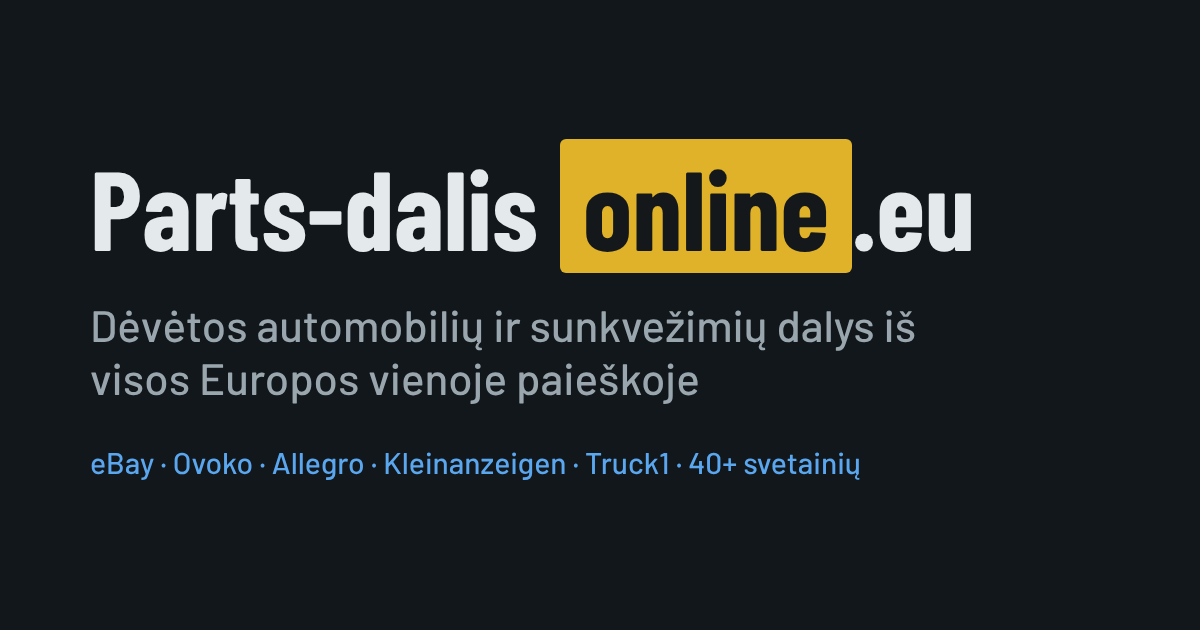
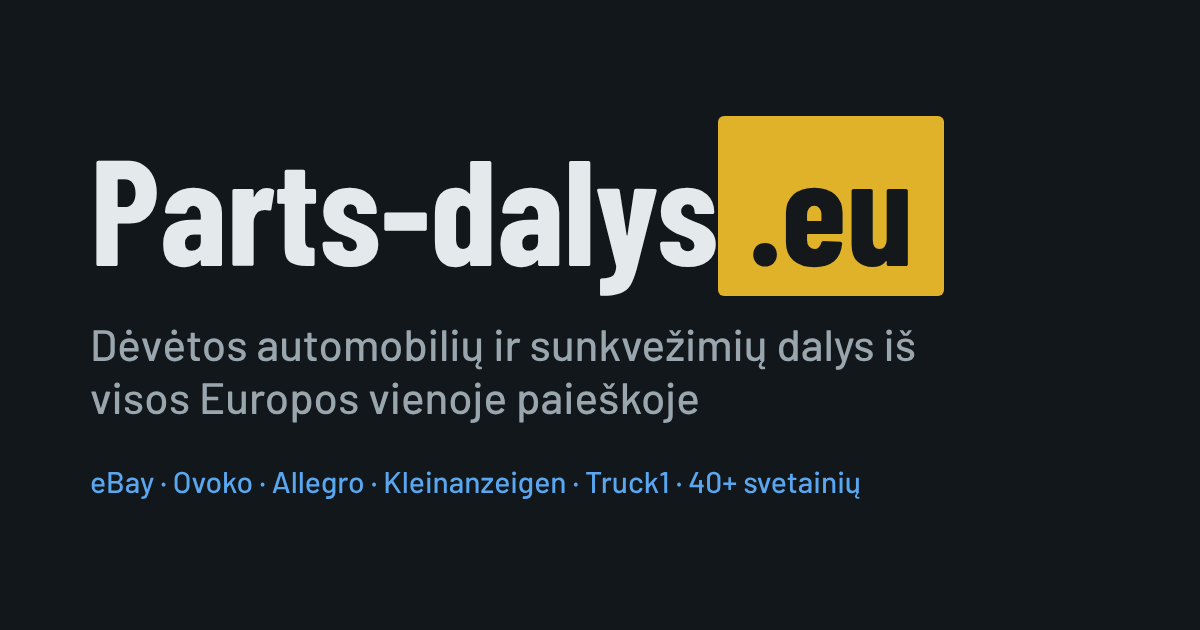
Rename site to Parts-dalys.eu
Claude-Session: https://claude.ai/code/session_01UNrUfuVYBVuLXoXYuXDMci

Changed region(s): [[0.0617, 0.181, 0.8325, 0.6635], [0.0617, 0.7238, 0.74, 0.7841]]

diff --git a/public/apie.html b/public/apie.html
@@ -3,12 +3,12 @@
 <head>
 <meta charset="utf-8">
 <meta name="viewport" content="width=device-width, initial-scale=1">
-<title>Apie – Parts-dalis online.eu</title>
-<meta name="description" content="Kas yra Parts-dalis online.eu, iš kur gaunami skelbimai, kaip skaičiuojamos kainos ir kaip su mumis susisiekti.">
+<title>Apie – Parts-dalys.eu</title>
+<meta name="description" content="Kas yra Parts-dalys.eu, iš kur gaunami skelbimai, kaip skaičiuojamos kainos ir kaip su mumis susisiekti.">
 <meta property="og:type" content="website">
 <meta property="og:locale" content="lt_LT">
-<meta property="og:site_name" content="Parts-dalis online.eu">
-<meta property="og:title" content="Apie Parts-dalis online.eu">
+<meta property="og:site_name" content="Parts-dalys.eu">
+<meta property="og:title" content="Apie Parts-dalys.eu">
 <meta property="og:description" content="Dėvėtų automobilių ir sunkvežimių dalių paieška per daugelį Europos ir pasaulio svetainių.">
 <meta property="og:image" content="/favicon.svg">
 <meta name="theme-color" content="#eef1f2" media="(prefers-color-scheme: light)">
@@ -23,12 +23,12 @@
 <body>
 <div class="wrap">
   <header>
-    <a class="brand" href="/">Parts-dalis <span>online</span>.eu</a>
+    <a class="brand" href="/">Parts-dalys<span>.eu</span></a>
   </header>
 
   <main class="prose">
     <h1>Apie</h1>
-    <p>Parts-dalis online.eu – tai viena paieška per dėvėtų lengvųjų automobilių ir sunkvežimių dalių skelbimus Europoje ir pasaulyje. Įrašote detalės pavadinimą arba OEM numerį lietuviškai, o mes užklausą išverčiame į kitas kalbas, vienu metu paklausiame kelių šaltinių ir parodome rezultatus vienoje vietoje, surikiuotus nuo pigiausio su pristatymu.</p>
+    <p>Parts-dalys.eu – tai viena paieška per dėvėtų lengvųjų automobilių ir sunkvežimių dalių skelbimus Europoje ir pasaulyje. Įrašote detalės pavadinimą arba OEM numerį lietuviškai, o mes užklausą išverčiame į kitas kalbas, vienu metu paklausiame kelių šaltinių ir parodome rezultatus vienoje vietoje, surikiuotus nuo pigiausio su pristatymu.</p>
 
     <h2>Iš kur skelbimai</h2>
     <ul>
@@ -47,13 +47,13 @@
     <p>Kai kurios eBay nuorodos gali būti partnerių (angl. <em>affiliate</em>) nuorodos: jei per jas ką nors nusipirksite, gausime nedidelį komisinį atlygį iš eBay. Jums kaina dėl to nesikeičia, o tai padeda išlaikyti svetainę nemokamą.</p>
 
     <h2 id="kontaktai">Kontaktai</h2>
-    <p>Pastebėjote klaidą, norite pasiūlyti šaltinį ar bendradarbiauti? Rašykite: <a href="mailto:info@partsonline.eu">info@partsonline.eu</a>.</p>
+    <p>Pastebėjote klaidą, norite pasiūlyti šaltinį ar bendradarbiauti? Rašykite: <a href="mailto:info@parts-dalys.eu">info@parts-dalys.eu</a>.</p>
 
     <p><a href="/">← Grįžti į paiešką</a></p>
   </main>
 
   <footer>
-    <span>© Parts-dalis online.eu · kainos orientacinės, pirkimas vyksta pardavėjo svetainėje</span>
+    <span>© Parts-dalys.eu · kainos orientacinės, pirkimas vyksta pardavėjo svetainėje</span>
     <nav aria-label="Papildoma"><a href="/">Paieška</a><a href="/apie.html">Apie</a></nav>
   </footer>
 </div>

diff --git a/public/index.html b/public/index.html
@@ -3,14 +3,14 @@
 <head>
 <meta charset="utf-8">
 <meta name="viewport" content="width=device-width, initial-scale=1">
-<title>Parts-dalis online.eu – dėvėtų automobilių ir sunkvežimių dalių paieška</title>
+<title>Parts-dalys.eu – dėvėtų automobilių ir sunkvežimių dalių paieška</title>
 <meta name="description" content="Viena paieška per dėvėtų automobilių ir sunkvežimių dalių skelbimus Europoje ir pasaulyje. Kainos perskaičiuotos į eurus su pristatymu.">
 <meta name="theme-color" content="#eef1f2" media="(prefers-color-scheme: light)">
 <meta name="theme-color" content="#12171b" media="(prefers-color-scheme: dark)">
 <meta property="og:type" content="website">
 <meta property="og:locale" content="lt_LT">
-<meta property="og:site_name" content="Parts-dalis online.eu">
-<meta property="og:title" content="Parts-dalis online.eu – dėvėtos auto dalys iš visos Europos">
+<meta property="og:site_name" content="Parts-dalys.eu">
+<meta property="og:title" content="Parts-dalys.eu – dėvėtos auto dalys iš visos Europos">
 <meta property="og:description" content="Ieškokite dėvėtų lengvųjų ir krovininių automobilių dalių eBay, ardymo įmonių ir skelbimų svetainėse vienu metu. Kainos eurais.">
 <meta property="og:image" content="/og.png">
 <meta property="og:image:width" content="1200">
@@ -27,7 +27,7 @@
 <a class="skip" href="#rezultatai">Pereiti prie rezultatų</a>
 <div class="wrap">
   <header>
-    <a class="brand" href="/">Parts-dalis <span>online</span>.eu</a>
+    <a class="brand" href="/">Parts-dalys<span>.eu</span></a>
     <p class="sub">Dėvėtos automobilių ir sunkvežimių dalys iš visos Europos ir pasaulio vienoje vietoje. Kainos perskaičiuotos į eurus.</p>
   </header>
 
@@ -72,7 +72,7 @@
   </main>
 
   <footer>
-    <span>© Parts-dalis online.eu · kainos orientacinės, pirkimas vyksta pardavėjo svetainėje</span>
+    <span>© Parts-dalys.eu · kainos orientacinės, pirkimas vyksta pardavėjo svetainėje</span>
     <nav aria-label="Papildoma"><a href="/apie.html">Apie</a><a href="/apie.html#kontaktai">Kontaktai</a></nav>
   </footer>
 </div>

diff --git a/src/server.js b/src/server.js
@@ -146,7 +146,7 @@ export function createApp(adapters = buildAdapters(), { rateLimit = 30, rateWind
 if (process.argv[1] === fileURLToPath(import.meta.url)) {
   const port = Number(process.env.PORT) || 3000;
   const app = createApp();
-  app.listen(port, () => console.log(`Parts-dalis online.eu: http://localhost:${port}`));
+  app.listen(port, () => console.log(`Parts-dalys.eu: http://localhost:${port}`));
   const stop = (sig) => {
     console.log(`${sig}: stabdoma`);
     app.close(() => process.exit(0));

diff --git a/public/app.js b/public/app.js
@@ -1,4 +1,4 @@
-// Page script for Parts-dalis online.eu. Loaded as a module so it works under a strict CSP.
+// Page script for Parts-dalys.eu. Loaded as a module so it works under a strict CSP.
 import { SOURCES, REGIONS, VT } from "/shared/sources.js";
 import { translate, LANGS } from "/shared/translate.js";
 

diff --git a/README.md b/README.md
@@ -1,4 +1,4 @@
-# Parts-dalis online.eu
+# Parts-dalys.eu
 
 Viena paieška per dėvėtų automobilių ir sunkvežimių dalių skelbimus Europoje ir pasaulyje. Serveris vienu metu klausia kelių šaltinių, kainas perskaičiuoja į eurus (ECB kursas) ir surikiuoja nuo pigiausios su pristatymu.
 
